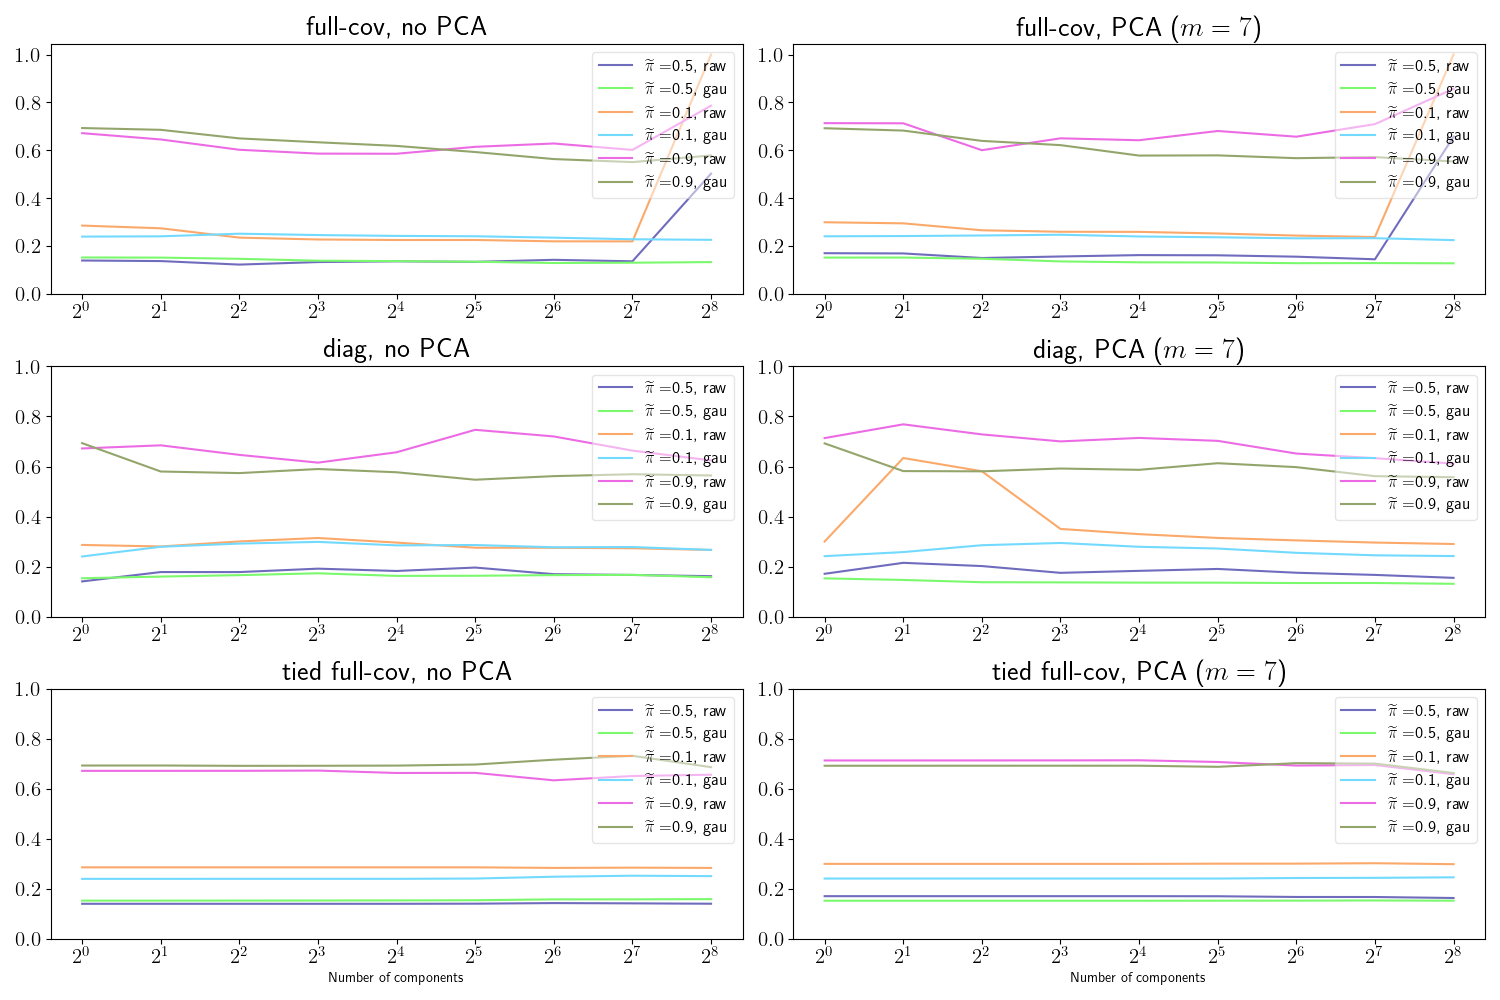
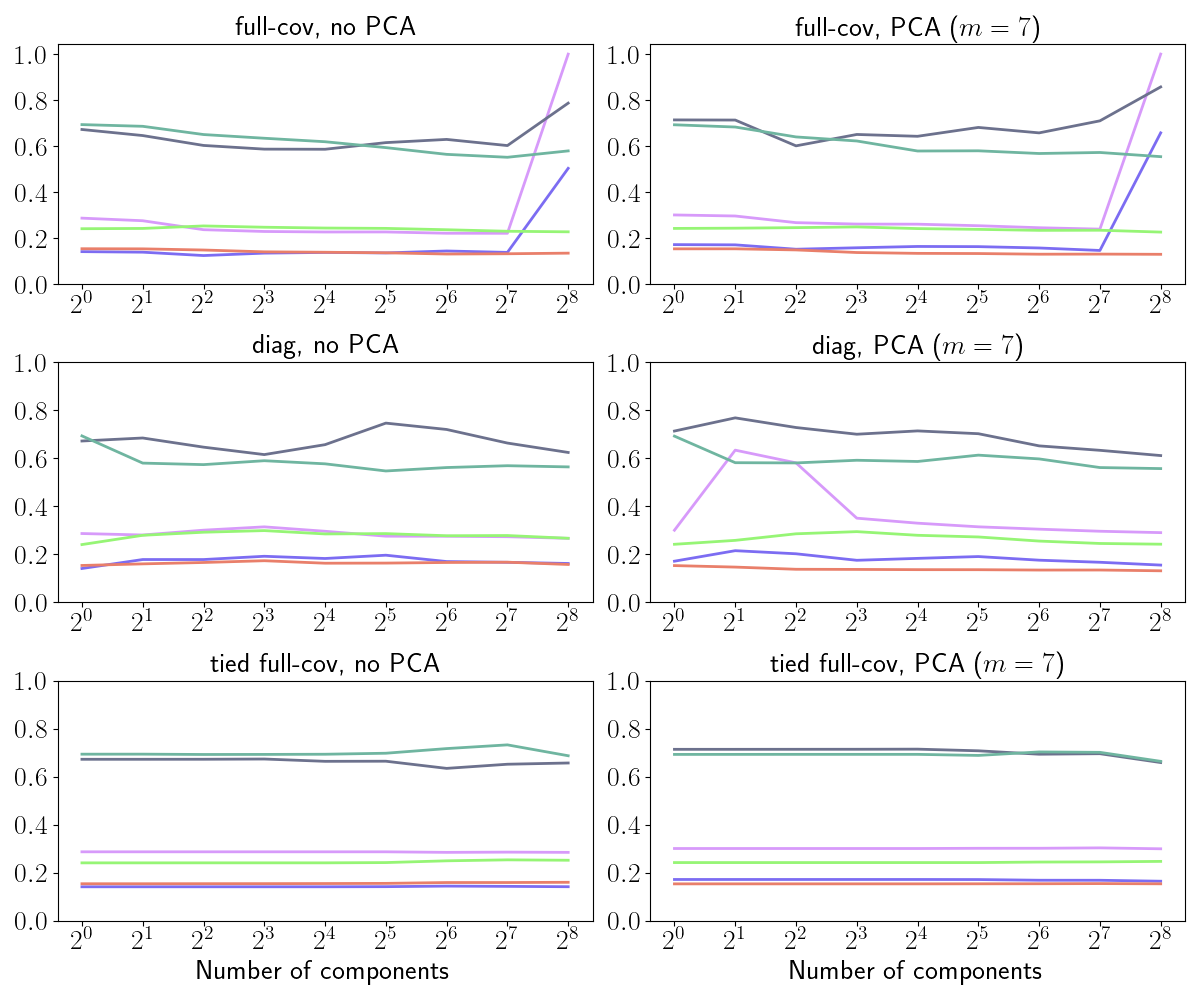
New plots

diff --git a/utils/plot_utils.py b/utils/plot_utils.py
@@ -468,14 +468,14 @@ def plot_tuningGMM2():
         "font.family": "sans-serif",
         "font.sans-serif": ["Computer Modern Serif"],
         "axes.titlesize": 30,
-        "axes.labelsize": 30,
+        "axes.labelsize": 20,
         "legend.fontsize": 20,
-        "xtick.labelsize": 30,
-        "ytick.labelsize": 30,
+        "xtick.labelsize": 20,
+        "ytick.labelsize": 20,
     })
 
     fig, axs = plt.subplots(3, 2)
-    fig.set_size_inches(15, 10)
+    fig.set_size_inches(12, 10)
     # colors = distinctipy.get_colors(6, pastel_factor=0.7)
     y = np.arange(0.0, 1.1, 0.2)
 
@@ -496,10 +496,18 @@ def plot_tuningGMM2():
             pca = f"PCA ($m={m}$)" if m is not None else "no PCA"
             axs[i // 2, i % 2].set_title(rf"{v}, {pca}", size=20)
 
-        axs[i // 2, i % 2].legend(loc='upper right', framealpha=0.5)
+        # axs[i // 2, i % 2].legend(loc='upper right', framealpha=0.5)
 
     fig.tight_layout()
-    plt.show()
+    # plt.show()
+    fig.savefig(fname="tuning_GMM")
+
+    label_params = axs[0, 0].get_legend_handles_labels()
+    figl, axl = plt.subplots(figsize=(6.5, 5))
+    axl.axis(False)
+    axl.legend(*label_params, loc="center", bbox_to_anchor=(0.5, 0.5), prop={"size": 40})
+    # figl.show()
+    figl.savefig(fname="tuning_GMM_legend")
 
 
 def bayes_error_plots(classifier):
